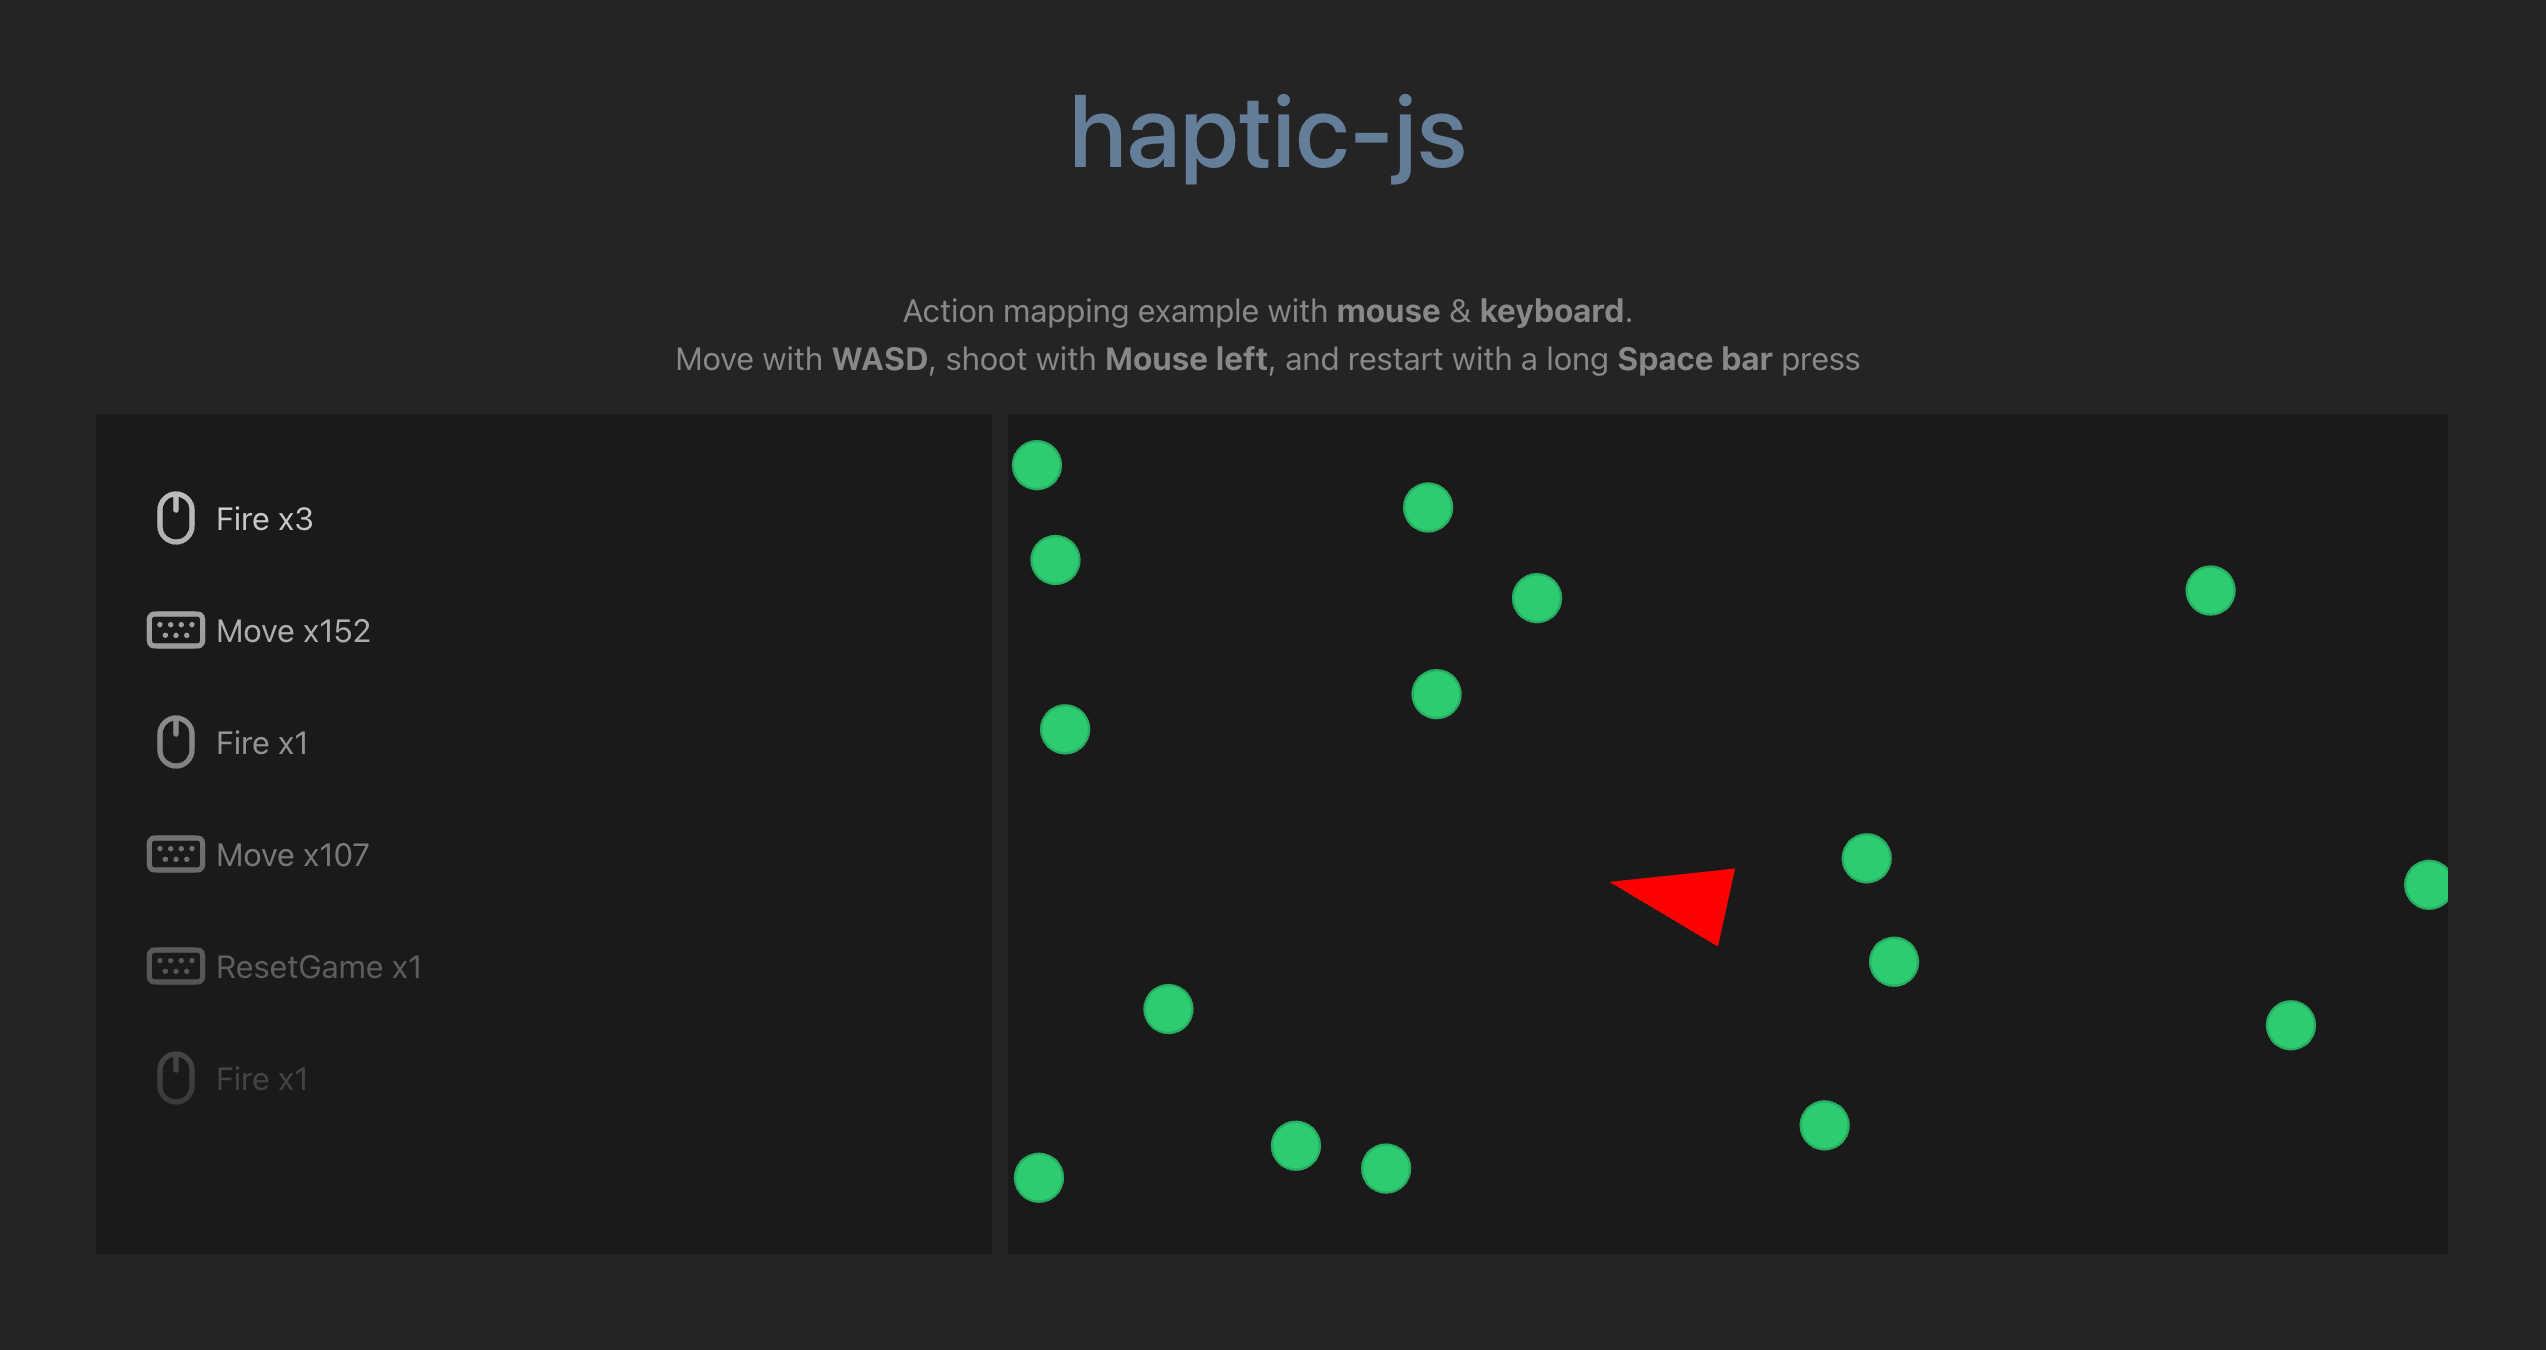
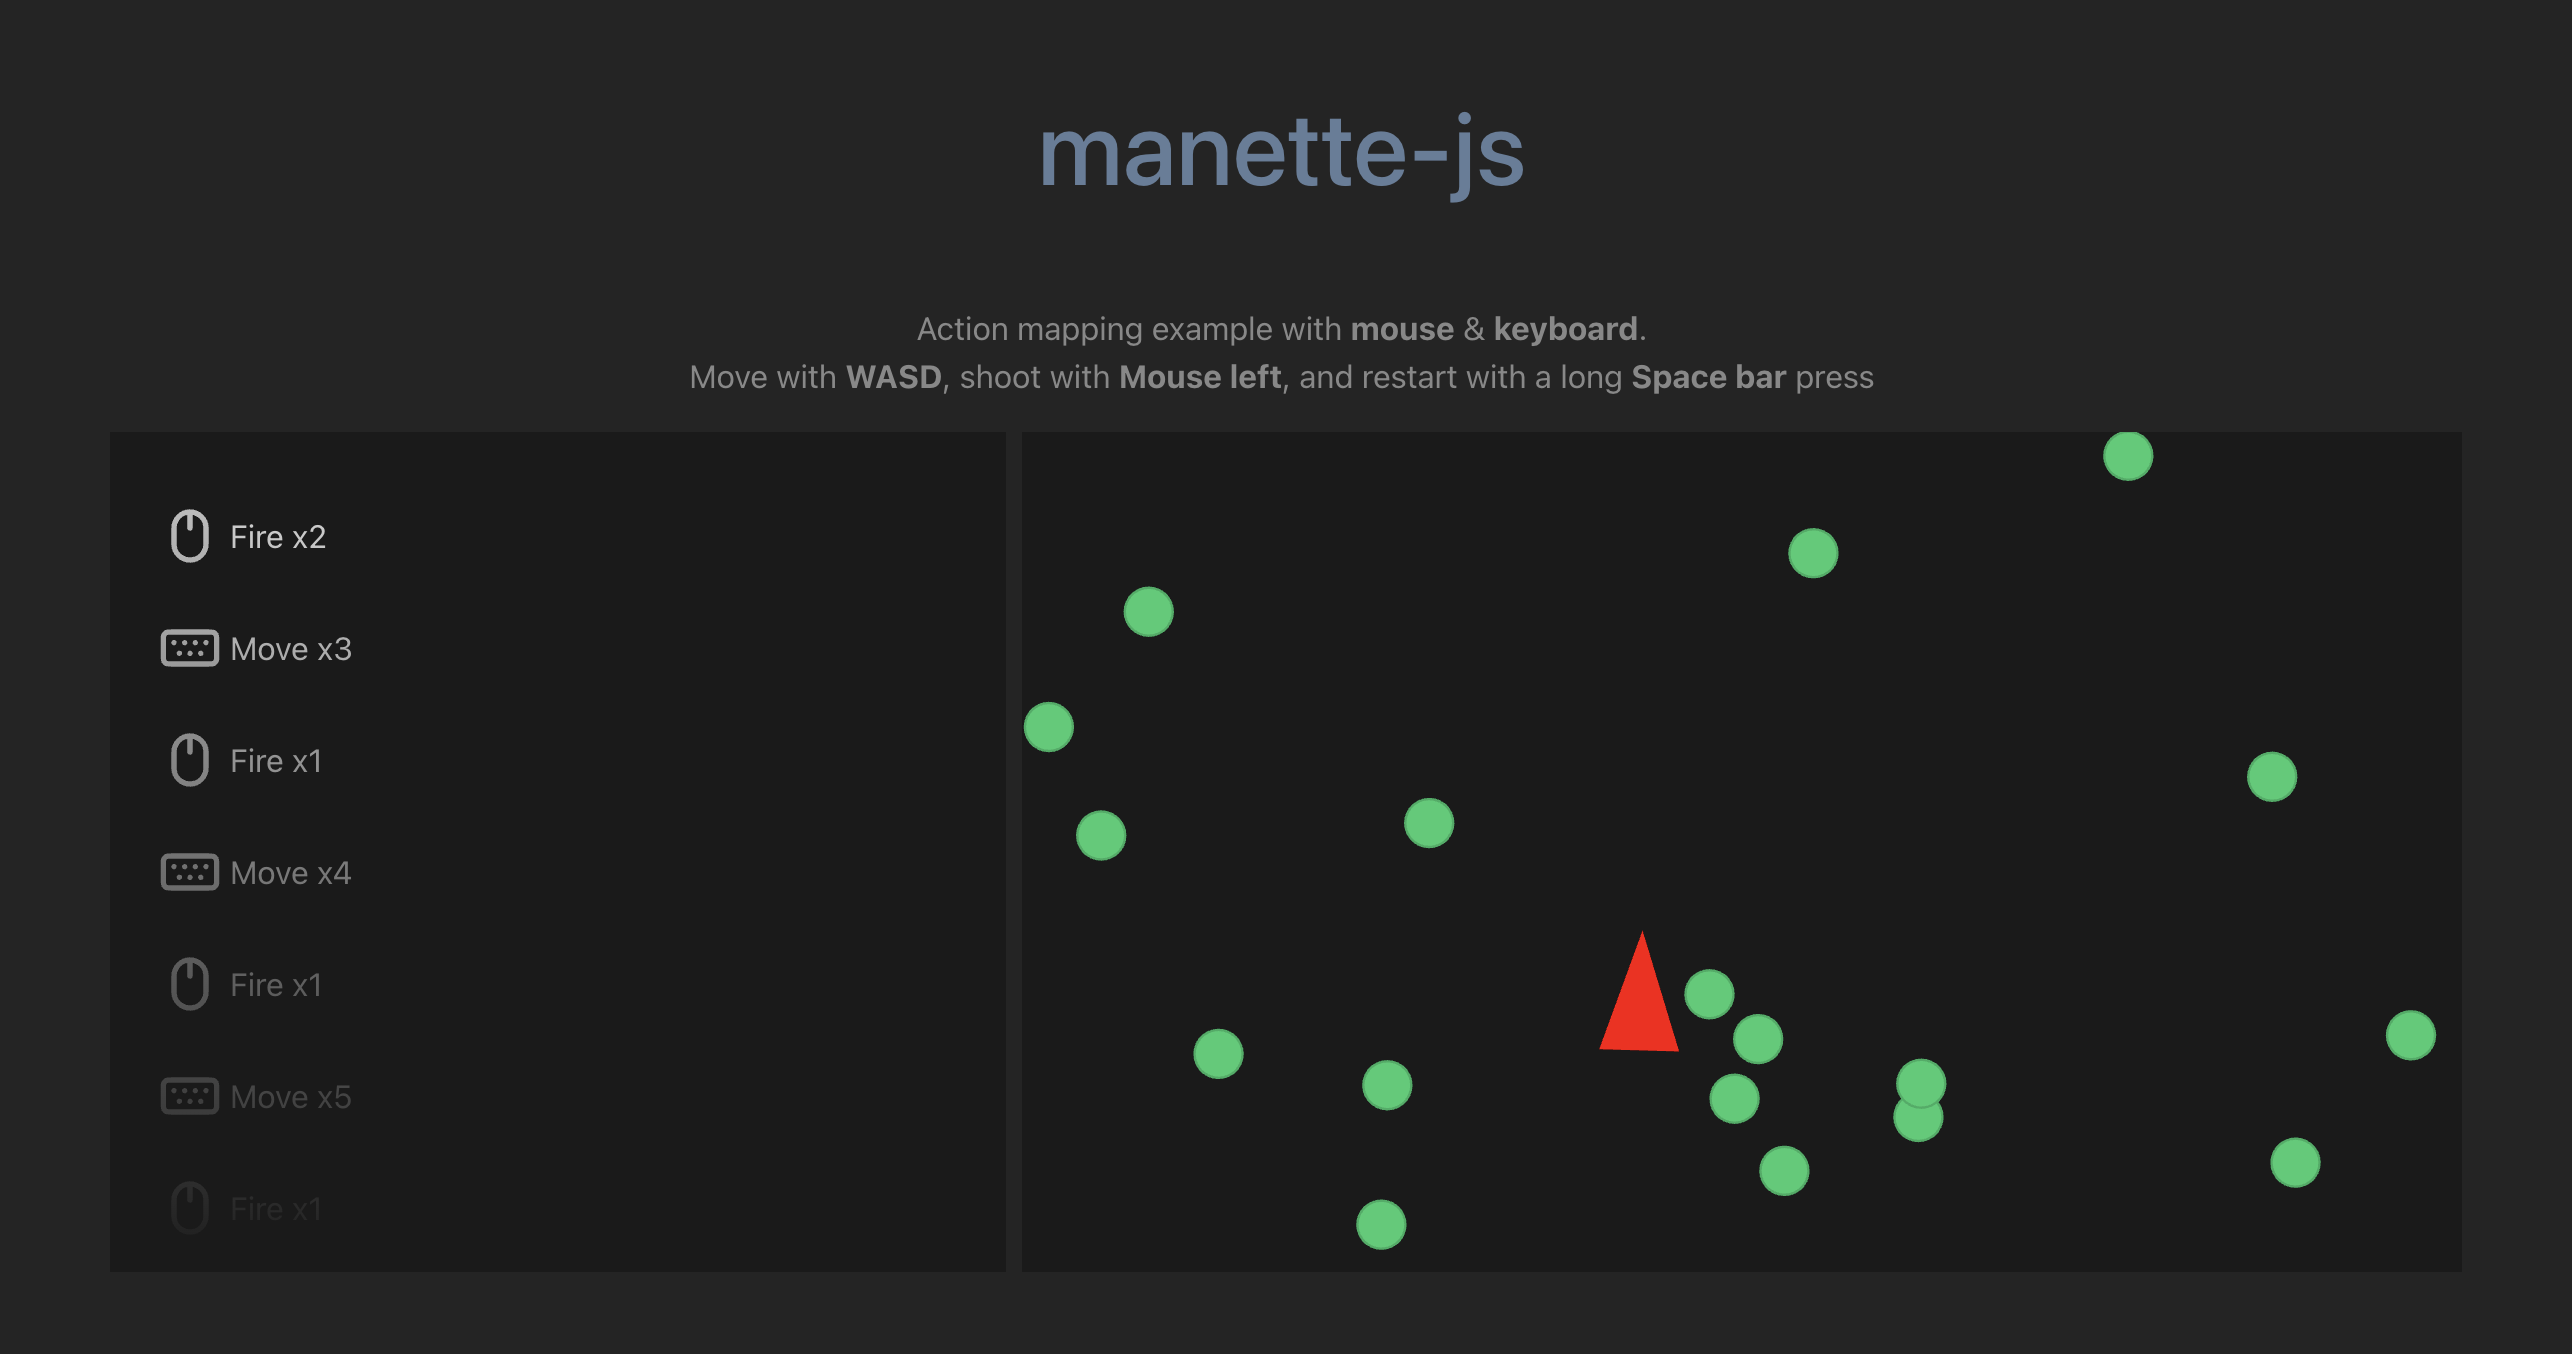
package: Rename haptic-js to manette-js

diff --git a/docs/index.html b/docs/index.html
@@ -3,14 +3,14 @@
   <head>
     <meta charset="UTF-8" />
     <meta name="viewport" content="width=device-width, initial-scale=1.0" />
-    <title>haptic-js</title>
-    <script type="module" crossorigin src="/haptic-js/assets/index-71e633bd.js"></script>
-    <link rel="stylesheet" href="/haptic-js/assets/index-83d41fcf.css">
+    <title>manette-js</title>
+    <script type="module" crossorigin src="/manette-js/assets/index-71e633bd.js"></script>
+    <link rel="stylesheet" href="/manette-js/assets/index-83d41fcf.css">
   </head>
   <body>
     <div id="app">
       <h1>
-        <a href="https://github.com/DavidPeicho/haptic-js" target="_blank">haptic-js</a>
+        <a href="https://github.com/DavidPeicho/manette-js" target="_blank">manette-js</a>
       </h1>
       <p class="quote">
           Action mapping example with <b>mouse</b> & <b>keyboard</b>.</br>
@@ -24,6 +24,6 @@
           <canvas></canvas>
       </div>
     </div>
-    
+
   </body>
 </html>

diff --git a/example/index.html b/example/index.html
@@ -3,12 +3,12 @@
   <head>
     <meta charset="UTF-8" />
     <meta name="viewport" content="width=device-width, initial-scale=1.0" />
-    <title>haptic-js</title>
+    <title>manette-js</title>
   </head>
   <body>
     <div id="app">
       <h1>
-        <a href="https://github.com/DavidPeicho/haptic-js" target="_blank">haptic-js</a>
+        <a href="https://github.com/DavidPeicho/manette-js" target="_blank">manette-js</a>
       </h1>
       <p class="quote">
           Action mapping example with <b>mouse</b> & <b>keyboard</b>.</br>

diff --git a/example/src/index.ts b/example/src/index.ts
@@ -18,7 +18,7 @@ import {
     MouseBinding,
     MouseDevice,
     PressTrigger,
-} from 'haptic-js';
+} from 'manette-js';
 
 import {Game} from './game.js';
 

diff --git a/example/vite.config.js b/example/vite.config.js
@@ -1,3 +1,3 @@
 export default {
-    base: '/haptic-js/'
+    base: '/manette-js/'
 }

diff --git a/README.md b/README.md
@@ -1,8 +1,8 @@
-# haptic-js
+# manette-js
 
 Input & action mapping library for JavaScript.
 
-> 🚧 haptic-js is released as a beta until the API is stabilized 🚧
+> 🚧 manette-js is released as a beta until the API is stabilized 🚧
 
 ![](./img/example.png)
 
@@ -19,7 +19,7 @@ Input & action mapping library for JavaScript.
 
 Getting started:
 
-* [Example Demo](https://davidpeicho.github.io/haptic-js/)
+* [Example Demo](https://davidpeicho.github.io/manette-js/)
 * [Example Source](./example/src/index.ts)
 
 ## Install
@@ -27,13 +27,13 @@ Getting started:
 Using `npm`:
 
 ```sh
-npm i haptic-js
+npm i manette-js
 ```
 
 Using `yarn`:
 
 ```sh
-yarn add haptic-js
+yarn add manette-js
 ```
 
 ## Usage Example
@@ -49,7 +49,7 @@ import {
     MouseDevice,
     XRDevice,
     Handedness,
-} from 'haptic-js';
+} from 'manette-js';
 
 // Player performs a fire action.
 const fire = new BooleanAction();
